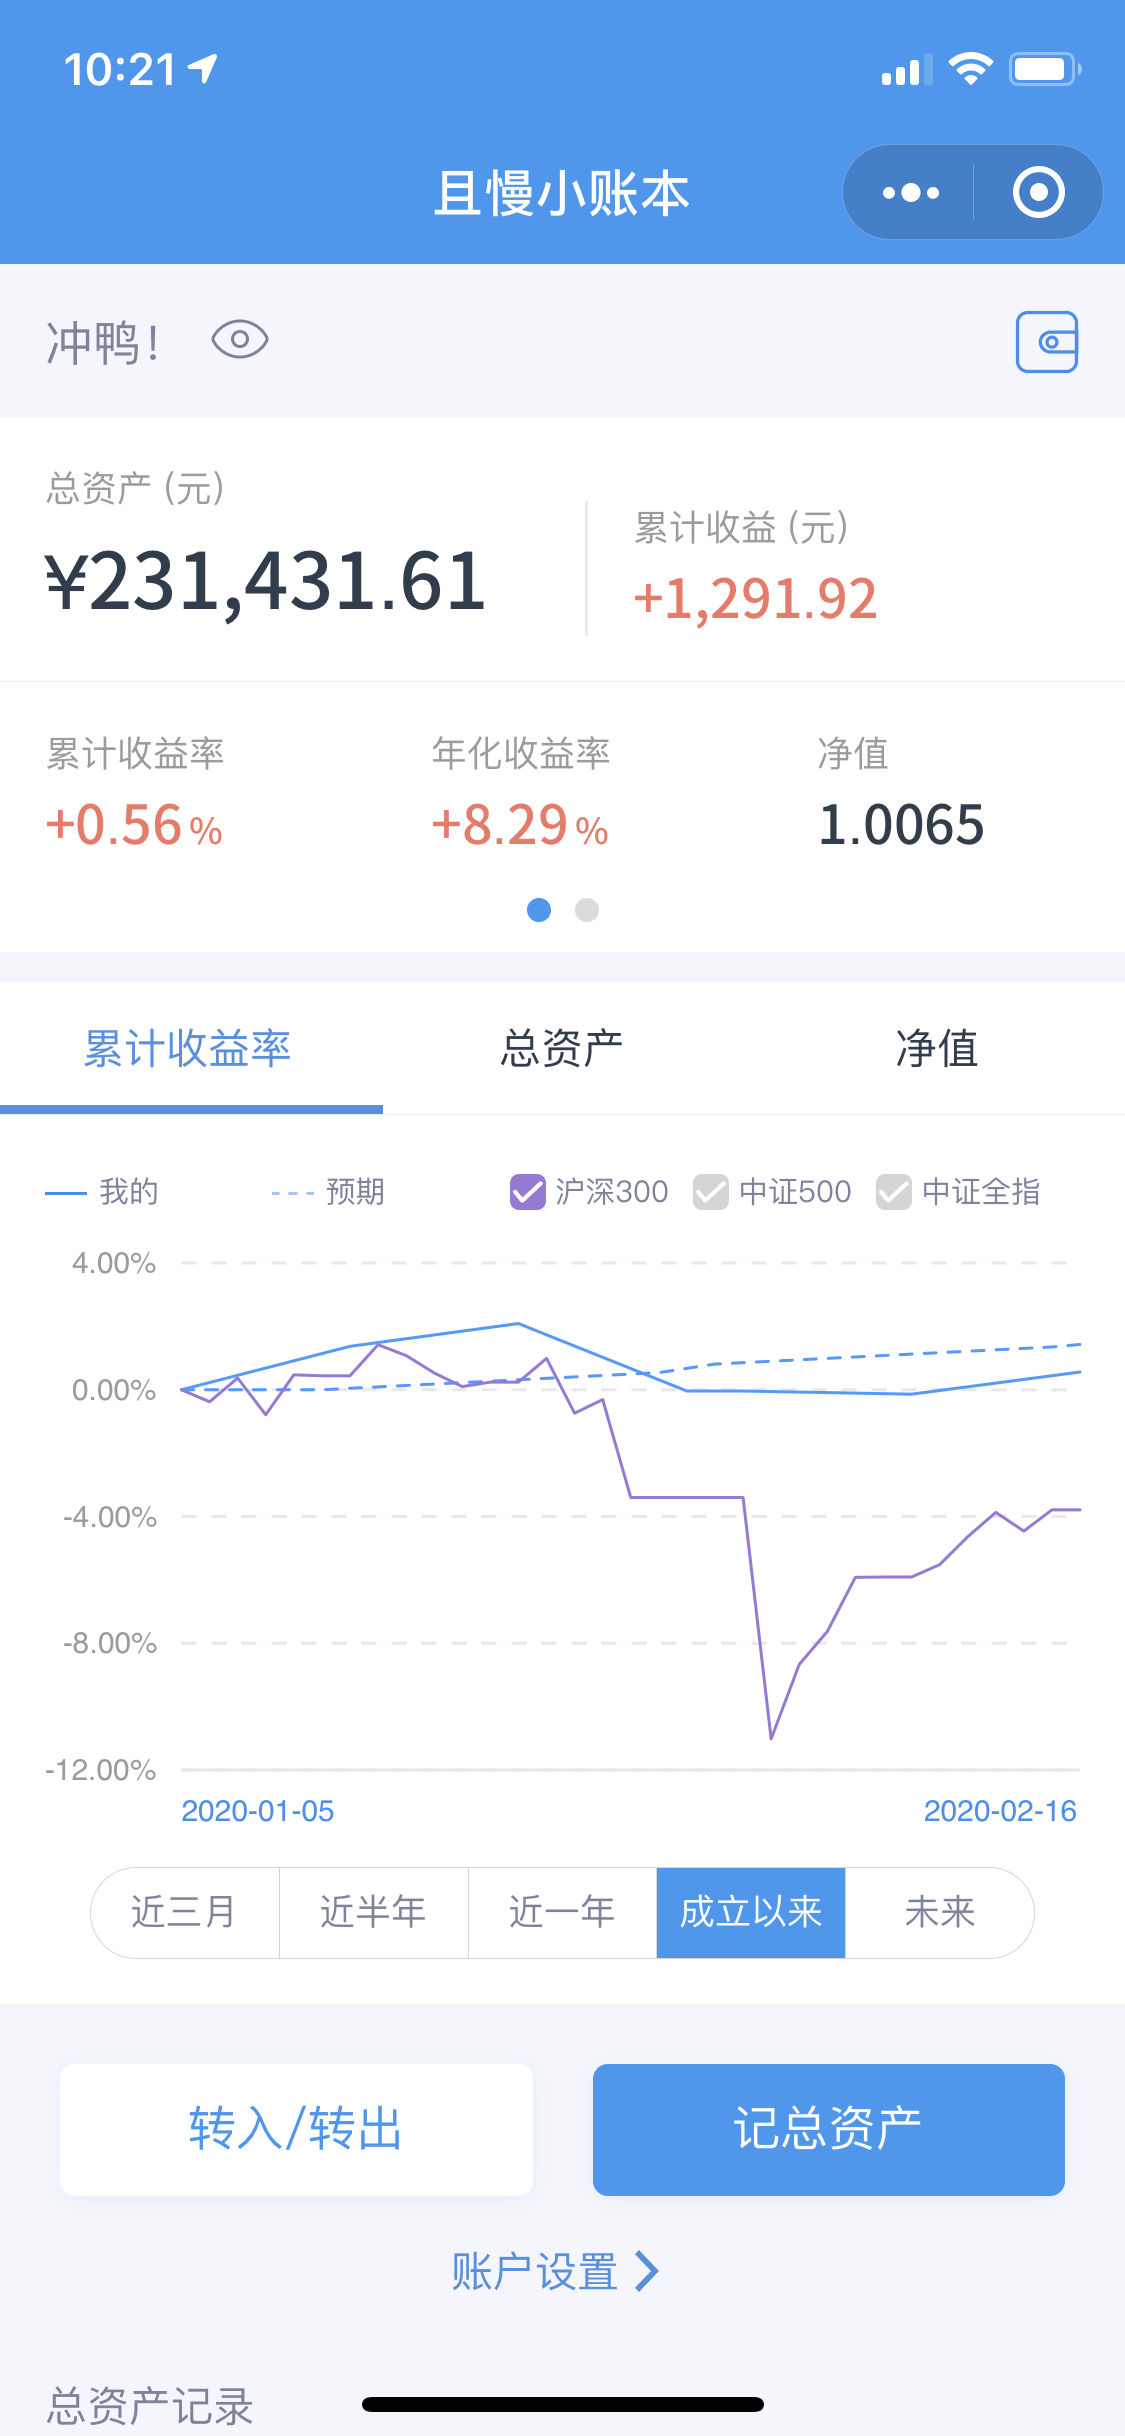
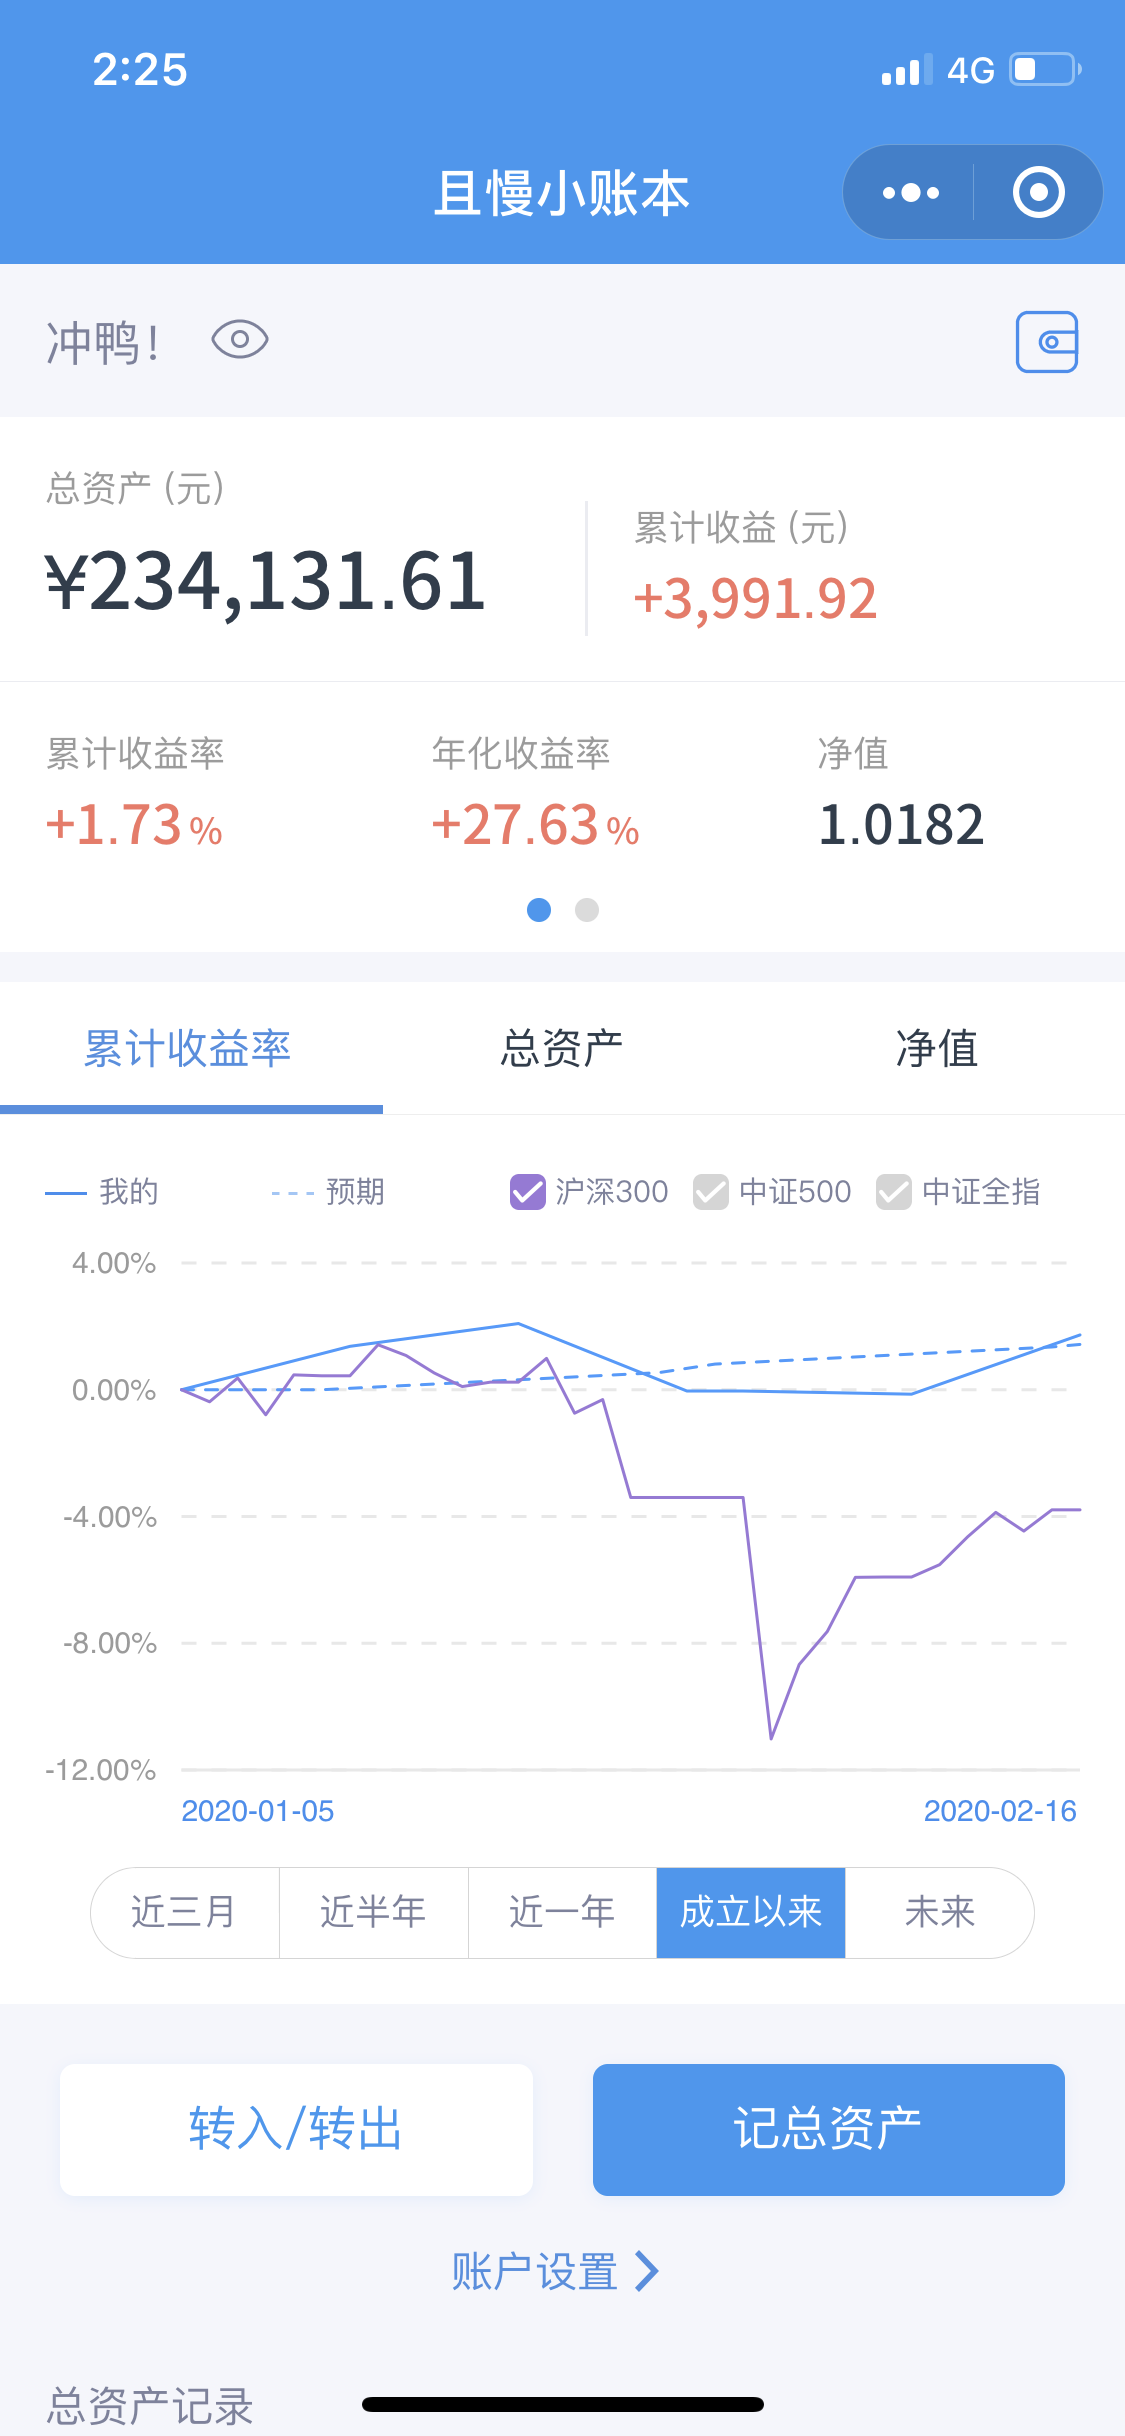
:bug: 修改错误记录

diff --git a/docs/investment20200216.md b/docs/investment20200216.md
@@ -13,6 +13,6 @@ keep calm and carry on.
 
 ## 最新净值
 
-最新的资产是**231431.61**，基金净值是**1.0065**，本周增长**+0.7%**。
+最新的资产是**234131.61**，基金净值是**1.0182**，本周增长**+1.87%**。
 
  <img src="./_images/NW20200216.PNG" width="375" height="812" alt="NW20200216" align="center"/>
